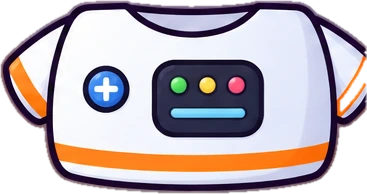
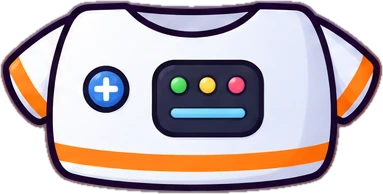
Recut spacesuit (right sleeve was cropped)
Claude-Session: https://claude.ai/code/session_01R3m8MAFkhgnU4D5f6BKp5W

diff --git a/index.html b/index.html
@@ -752,7 +752,7 @@ var FOODS = {
 var SHOP = [];
 /* 이미지로 만든 아이템: {id,name,slot,tier,cost,file:'assets/items/id.webp',box:[x,y,w,h]} 를 여기에 추가하면
    뽑기·꾸미기·도감에 자동으로 들어가요. box는 캔버스(640x520) 좌표, vb는 box 와 같아요. */
-var IMG_ITEMS = [{"id": "ribbon", "name": "빨간 리본", "slot": "side", "tier": 0, "cost": 8, "file": "assets/items/ribbon.webp", "box": [374.5, 56.1, 125, 71.7]}, {"id": "flower", "name": "꽃 핀", "slot": "side", "tier": 0, "cost": 12, "file": "assets/items/flower.webp", "box": [152.5, 43.1, 105, 97.7]}, {"id": "sprout", "name": "새싹 핀", "slot": "side", "tier": 0, "cost": 8, "file": "assets/items/sprout.webp", "box": [382.0, 53.3, 110, 77.5]}, {"id": "heart", "name": "하트 핀", "slot": "side", "tier": 0, "cost": 10, "file": "assets/items/heart.webp", "box": [383.0, 46.8, 108, 90.4]}, {"id": "star", "name": "별 핀", "slot": "side", "tier": 0, "cost": 10, "file": "assets/items/star.webp", "box": [383.0, 37.5, 108, 108.9]}, {"id": "cloudbow", "name": "구름 무지개 핀", "slot": "side", "tier": 0, "cost": 12, "file": "assets/items/cloudbow.webp", "box": [377.0, 51.8, 120, 80.5]}, {"id": "cherry", "name": "체리 핀", "slot": "side", "tier": 0, "cost": 12, "file": "assets/items/cherry.webp", "box": [387.0, 42.4, 100, 99.2]}, {"id": "glasses", "name": "동그란 안경", "slot": "face", "tier": 1, "cost": 15, "file": "assets/items/glasses.webp", "box": [143.5, 166.3, 355, 147.4]}, {"id": "scarf", "name": "따뜻한 목도리", "slot": "neck", "tier": 1, "cost": 20, "file": "assets/items/scarf.webp", "box": [179.5, 318.9, 285, 178.3]}, {"id": "hat", "name": "파티 모자", "slot": "head", "tier": 1, "cost": 25, "file": "assets/items/hat.webp", "box": [250.0, -80.1, 140, 168.1]}, {"id": "wingpin", "name": "날개 핀", "slot": "side", "tier": 1, "cost": 18, "file": "assets/items/wingpin.webp", "box": [379.5, 46.4, 115, 91.1]}, {"id": "purplebow", "name": "보라 리본 핀", "slot": "side", "tier": 1, "cost": 15, "file": "assets/items/purplebow.webp", "box": [377.0, 50.1, 120, 83.8]}, {"id": "lacebow", "name": "레이스 리본 핀", "slot": "side", "tier": 1, "cost": 18, "file": "assets/items/lacebow.webp", "box": [379.5, 38.0, 115, 108.1]}, {"id": "snow", "name": "눈꽃 핀", "slot": "side", "tier": 1, "cost": 20, "file": "assets/items/snow.webp", "box": [387.0, 48.3, 100, 87.4]}, {"id": "moon", "name": "달별 핀", "slot": "side", "tier": 1, "cost": 22, "file": "assets/items/moon.webp", "box": [382.0, 39.7, 110, 104.6]}, {"id": "crown", "name": "반짝 왕관", "slot": "head", "tier": 2, "cost": 0, "file": "assets/items/crown.webp", "box": [230.0, -37.8, 180, 127.8]}, {"id": "wizard", "name": "별 마법사 모자", "slot": "head", "tier": 2, "cost": 0, "file": "assets/items/wizard.webp", "box": [177.0, -77.3, 290, 189.3]}, {"id": "starwing", "name": "별무지개 날개 머리띠", "slot": "head", "tier": 2, "cost": 0, "file": "assets/items/starwing.webp", "box": [165.0, 28.9, 310, 134.2]}, {"id": "nightcap", "name": "꿀잠 모자", "slot": "head", "tier": 2, "cost": 0, "file": "assets/items/nightcap.webp", "box": [192.0, 9.8, 260, 180.4]}, {"id": "maid", "name": "프릴 리본 머리띠", "slot": "head", "tier": 2, "cost": 0, "file": "assets/items/maid.webp", "box": [190.0, 19.6, 260, 156.9]}, {"id": "angel", "name": "천사 날개 후광", "slot": "head", "tier": 3, "cost": 0, "file": "assets/items/angel.webp", "box": [150.0, 6.4, 340, 177.1]}, {"id": "bat", "name": "박쥐 날개", "slot": "head", "tier": 3, "cost": 0, "file": "assets/items/bat.webp", "box": [165.0, 48.5, 310, 127.1]}, {"id": "wreath", "name": "꽃 화관", "slot": "head", "tier": 3, "cost": 0, "file": "assets/items/wreath.webp", "box": [180.0, 19.0, 280, 162.0]}, {"id": "tiara", "name": "날개 티아라", "slot": "head", "tier": 3, "cost": 0, "file": "assets/items/tiara.webp", "box": [195.0, 18.6, 250, 146.9]}, {"id": "galaxy", "name": "은하수 머리띠", "slot": "head", "tier": 3, "cost": 0, "file": "assets/items/galaxy.webp", "box": [160.0, 23.2, 320, 161.5]}, {"id": "broom", "name": "빗자루", "slot": "hand", "tier": 0, "cost": 14, "file": "assets/items/broom.webp", "box": [401.6, 283, 100.8, 230]}, {"id": "drink", "name": "음료수", "slot": "hand", "tier": 0, "cost": 10, "file": "assets/items/drink.webp", "box": [136.2, 332, 97.6, 162]}, {"id": "schoolbag", "name": "학교가방", "slot": "hand", "tier": 0, "cost": 16, "file": "assets/items/schoolbag.webp", "box": [383.0, 392, 133.0, 140]}, {"id": "slime", "name": "슬라임", "slot": "hand", "tier": 1, "cost": 18, "file": "assets/items/slime.webp", "box": [108.0, 331.1, 154, 116.8]}, {"id": "gameboy", "name": "휴대용 게임기", "slot": "hand", "tier": 1, "cost": 24, "file": "assets/items/gameboy.webp", "box": [222.0, 359.4, 195, 109.1]}, {"id": "bananadoll", "name": "바나나 애착인형", "slot": "hand", "tier": 2, "cost": 0, "file": "assets/items/bananadoll.webp", "box": [105.0, 303.6, 150, 176.4]}, {"id": "elephantdoll", "name": "코끼리 애착인형", "slot": "hand", "tier": 2, "cost": 0, "file": "assets/items/elephantdoll.webp", "box": [385.0, 321.0, 160, 148.7]}, {"id": "tshirt", "name": "줄무늬 티셔츠", "slot": "outfit", "tier": 0, "cost": 14, "file": "assets/items/tshirt.webp", "box": [200.0, 328, 240, 131.0]}, {"id": "overalls", "name": "멜빵바지", "slot": "outfit", "tier": 0, "cost": 16, "file": "assets/items/overalls.webp", "box": [200.0, 328, 240, 177.4]}, {"id": "dress", "name": "분홍 원피스", "slot": "outfit", "tier": 1, "cost": 26, "file": "assets/items/dress.webp", "box": [200.0, 328, 240, 131.7]}, {"id": "hanbok", "name": "한복", "slot": "outfit", "tier": 1, "cost": 30, "file": "assets/items/hanbok.webp", "box": [200.0, 328, 240, 139.9]}, {"id": "uniform", "name": "세일러 교복", "slot": "outfit", "tier": 1, "cost": 28, "file": "assets/items/uniform.webp", "box": [200.0, 328, 240, 146.9]}, {"id": "cape", "name": "별빛 마법 망토", "slot": "outfit", "tier": 2, "cost": 0, "file": "assets/items/cape.webp", "box": [200.0, 365, 240, 138.0]}, {"id": "princess", "name": "공주 드레스", "slot": "outfit", "tier": 2, "cost": 0, "file": "assets/items/princess.webp", "box": [200.0, 328, 240, 157.7]}, {"id": "spacesuit", "name": "우주복", "slot": "outfit", "tier": 3, "cost": 0, "file": "assets/items/spacesuit.webp", "box": [200.0, 328, 240, 126.9]}, {"id": "heartphones", "name": "하트 헤드폰", "slot": "head", "tier": 1, "cost": 22, "file": "assets/items/heartphones.webp", "box": [82, -12, 476, 273.0]}, {"id": "nursehat", "name": "간호사 모자", "slot": "head", "tier": 0, "cost": 14, "file": "assets/items/nursehat.webp", "box": [215, 14, 210, 102.6]}, {"id": "nursedress", "name": "간호사복", "slot": "outfit", "tier": 1, "cost": 28, "file": "assets/items/nursedress.webp", "box": [180.0, 318, 280, 206.6]}, {"id": "pancake", "name": "팬케이크", "slot": "hand", "tier": 1, "cost": 18, "file": "assets/items/pancake.webp", "box": [110, 335, 150, 121.7]}, {"id": "chocochip", "name": "초코칩", "slot": "hand", "tier": 0, "cost": 12, "file": "assets/items/chocochip.webp", "box": [130, 340, 100, 101.5]}, {"id": "elephantwings", "name": "코끼리 날개", "slot": "back", "tier": 1, "cost": 32, "file": "assets/items/elephantwings.webp", "box": [-30.0, 205, 700, 321.4]}, {"id": "angelwings", "name": "천사 날개", "slot": "back", "tier": 1, "cost": 34, "file": "assets/items/angelwings.webp", "box": [-30.0, 205, 700, 269.5]}, {"id": "demonwings", "name": "악마 날개", "slot": "back", "tier": 1, "cost": 34, "file": "assets/items/demonwings.webp", "box": [-30.0, 205, 700, 300.2]}, {"id": "rainbowwings", "name": "무지개 날개", "slot": "back", "tier": 2, "cost": 0, "file": "assets/items/rainbowwings.webp", "box": [-30.0, 205, 700, 312.6]}, {"id": "butterflywings", "name": "나비 날개", "slot": "back", "tier": 0, "cost": 24, "file": "assets/items/butterflywings.webp", "box": [-30.0, 205, 700, 313.3]}, {"id": "fairywings", "name": "요정 날개", "slot": "back", "tier": 1, "cost": 30, "file": "assets/items/fairywings.webp", "box": [-30.0, 205, 700, 358.8]}, {"id": "crystalwings", "name": "크리스탈 날개", "slot": "back", "tier": 2, "cost": 0, "file": "assets/items/crystalwings.webp", "box": [-30.0, 205, 700, 354.4]}, {"id": "starwings", "name": "별빛 날개", "slot": "back", "tier": 2, "cost": 0, "file": "assets/items/starwings.webp", "box": [-30.0, 205, 700, 348.6]}, {"id": "naturewings", "name": "자연 날개", "slot": "back", "tier": 1, "cost": 30, "file": "assets/items/naturewings.webp", "box": [-30.0, 205, 700, 350.8]}, {"id": "nheart", "name": "하트 멜빵 반바지", "slot": "outfit", "tier": 0, "cost": 16, "file": "assets/items/nheart.webp", "box": [180.0, 318, 280, 210.6]}, {"id": "nribbon", "name": "분홍 리본 원피스", "slot": "outfit", "tier": 1, "cost": 26, "file": "assets/items/nribbon.webp", "box": [180.0, 318, 280, 192.7]}, {"id": "ndaisy", "name": "노랑 데이지 원피스", "slot": "outfit", "tier": 1, "cost": 28, "file": "assets/items/ndaisy.webp", "box": [180.0, 318, 280, 200.4]}, {"id": "nstrawb", "name": "딸기 레이스 원피스", "slot": "outfit", "tier": 1, "cost": 28, "file": "assets/items/nstrawb.webp", "box": [180.0, 318, 280, 188.6]}, {"id": "nsailor", "name": "곰돌이 세일러복", "slot": "outfit", "tier": 0, "cost": 18, "file": "assets/items/nsailor.webp", "box": [180.0, 318, 280, 205.2]}, {"id": "nbeartan", "name": "갈색 리본 곰돌이옷", "slot": "outfit", "tier": 1, "cost": 26, "file": "assets/items/nbeartan.webp", "box": [180.0, 318, 280, 209.0]}, {"id": "nrose", "name": "장미 꽃무늬 원피스", "slot": "outfit", "tier": 1, "cost": 26, "file": "assets/items/nrose.webp", "box": [180.0, 318, 280, 195.0]}, {"id": "nbearblue", "name": "곰돌이 파랑 멜빵", "slot": "outfit", "tier": 0, "cost": 18, "file": "assets/items/nbearblue.webp", "box": [180.0, 318, 280, 209.6]}, {"id": "nstar", "name": "별빛 망토", "slot": "outfit", "tier": 2, "cost": 0, "file": "assets/items/nstar.webp", "box": [180.0, 318, 280, 204.7]}, {"id": "nsnow", "name": "눈꽃 망토", "slot": "outfit", "tier": 2, "cost": 0, "file": "assets/items/nsnow.webp", "box": [180.0, 318, 280, 193.8]}, {"id": "nprince", "name": "왕자님 정복", "slot": "outfit", "tier": 2, "cost": 0, "file": "assets/items/nprince.webp", "box": [180.0, 318, 280, 211.5]}, {"id": "nbat", "name": "박쥐 망토", "slot": "outfit", "tier": 3, "cost": 0, "file": "assets/items/nbat.webp", "box": [180.0, 318, 280, 207.8]}, {"id": "mpink", "name": "핑크 하트 멜빵", "slot": "outfit", "tier": 0, "cost": 16, "file": "assets/items/mpink.webp", "box": [180.0, 318, 280, 226.8]}, {"id": "myellow", "name": "노랑 데이지 리본 원피스", "slot": "outfit", "tier": 1, "cost": 26, "file": "assets/items/myellow.webp", "box": [180.0, 318, 280, 197.4]}, {"id": "manchor", "name": "닻 세일러 원피스", "slot": "outfit", "tier": 0, "cost": 18, "file": "assets/items/manchor.webp", "box": [180.0, 318, 280, 206.7]}, {"id": "mstrawchk", "name": "딸기 체크 원피스", "slot": "outfit", "tier": 1, "cost": 28, "file": "assets/items/mstrawchk.webp", "box": [180.0, 318, 280, 196.1]}, {"id": "mdenim", "name": "별 청멜빵 반바지", "slot": "outfit", "tier": 0, "cost": 16, "file": "assets/items/mdenim.webp", "box": [180.0, 318, 280, 213.6]}, {"id": "mlavender", "name": "라벤더 프릴 원피스", "slot": "outfit", "tier": 1, "cost": 28, "file": "assets/items/mlavender.webp", "box": [180.0, 318, 280, 197.1]}, {"id": "mbearcream", "name": "곰돌이 크림 멜빵", "slot": "outfit", "tier": 1, "cost": 26, "file": "assets/items/mbearcream.webp", "box": [180.0, 318, 280, 215.8]}, {"id": "mmint", "name": "민트 클로버 원피스", "slot": "outfit", "tier": 1, "cost": 26, "file": "assets/items/mmint.webp", "box": [180.0, 318, 280, 202.9]}, {"id": "mcloud", "name": "구름 리본 원피스", "slot": "outfit", "tier": 1, "cost": 26, "file": "assets/items/mcloud.webp", "box": [180.0, 318, 280, 205.4]}, {"id": "mbee", "name": "꿀벌 멜빵", "slot": "outfit", "tier": 2, "cost": 0, "file": "assets/items/mbee.webp", "box": [180.0, 318, 280, 232.5]}, {"id": "mpearl", "name": "진주 하트 원피스", "slot": "outfit", "tier": 2, "cost": 0, "file": "assets/items/mpearl.webp", "box": [160.0, 318, 280, 214.0]}, {"id": "mnavy", "name": "달별 네이비 정복", "slot": "outfit", "tier": 3, "cost": 0, "file": "assets/items/mnavy.webp", "box": [180.0, 318, 280, 211.5]}, {"id": "psakura", "name": "벚꽃 원피스", "slot": "outfit", "tier": 1, "cost": 26, "file": "assets/items/psakura.webp", "box": [180.0, 328, 280, 217.5]}, {"id": "palice", "name": "앨리스 원피스", "slot": "outfit", "tier": 2, "cost": 0, "file": "assets/items/palice.webp", "box": [180.0, 328, 280, 222.2]}, {"id": "ppicnic", "name": "체크 피크닉 원피스", "slot": "outfit", "tier": 1, "cost": 28, "file": "assets/items/ppicnic.webp", "box": [180.0, 328, 280, 222.3]}, {"id": "pballet", "name": "발레코어 원피스", "slot": "outfit", "tier": 1, "cost": 28, "file": "assets/items/pballet.webp", "box": [180.0, 328, 280, 206.8]}, {"id": "pangel", "name": "천사 원피스", "slot": "outfit", "tier": 2, "cost": 0, "file": "assets/items/pangel.webp", "box": [180.0, 328, 280, 210.4]}, {"id": "pwedding", "name": "웨딩 드레스", "slot": "outfit", "tier": 3, "cost": 0, "file": "assets/items/pwedding.webp", "box": [180.0, 328, 280, 215.6]}, {"id": "pbee", "name": "꿀벌 원피스", "slot": "outfit", "tier": 1, "cost": 26, "file": "assets/items/pbee.webp", "box": [180.0, 328, 280, 236.0]}, {"id": "pfrog", "name": "개구리 멜빵", "slot": "outfit", "tier": 0, "cost": 18, "file": "assets/items/pfrog.webp", "box": [180.0, 328, 280, 214.2]}, {"id": "pcherry", "name": "체리 원피스", "slot": "outfit", "tier": 1, "cost": 28, "file": "assets/items/pcherry.webp", "box": [180.0, 328, 280, 228.3]}, {"id": "pcloudstar", "name": "구름별 원피스", "slot": "outfit", "tier": 2, "cost": 0, "file": "assets/items/pcloudstar.webp", "box": [180.0, 328, 280, 234.1]}, {"id": "pgoth", "name": "고딕 로리타", "slot": "outfit", "tier": 2, "cost": 0, "file": "assets/items/pgoth.webp", "box": [180.0, 328, 280, 230.8]}, {"id": "pxmas", "name": "크리스마스 원피스", "slot": "outfit", "tier": 3, "cost": 0, "file": "assets/items/pxmas.webp", "box": [180.0, 328, 280, 219.7]}];
+var IMG_ITEMS = [{"id": "ribbon", "name": "빨간 리본", "slot": "side", "tier": 0, "cost": 8, "file": "assets/items/ribbon.webp", "box": [374.5, 56.1, 125, 71.7]}, {"id": "flower", "name": "꽃 핀", "slot": "side", "tier": 0, "cost": 12, "file": "assets/items/flower.webp", "box": [152.5, 43.1, 105, 97.7]}, {"id": "sprout", "name": "새싹 핀", "slot": "side", "tier": 0, "cost": 8, "file": "assets/items/sprout.webp", "box": [382.0, 53.3, 110, 77.5]}, {"id": "heart", "name": "하트 핀", "slot": "side", "tier": 0, "cost": 10, "file": "assets/items/heart.webp", "box": [383.0, 46.8, 108, 90.4]}, {"id": "star", "name": "별 핀", "slot": "side", "tier": 0, "cost": 10, "file": "assets/items/star.webp", "box": [383.0, 37.5, 108, 108.9]}, {"id": "cloudbow", "name": "구름 무지개 핀", "slot": "side", "tier": 0, "cost": 12, "file": "assets/items/cloudbow.webp", "box": [377.0, 51.8, 120, 80.5]}, {"id": "cherry", "name": "체리 핀", "slot": "side", "tier": 0, "cost": 12, "file": "assets/items/cherry.webp", "box": [387.0, 42.4, 100, 99.2]}, {"id": "glasses", "name": "동그란 안경", "slot": "face", "tier": 1, "cost": 15, "file": "assets/items/glasses.webp", "box": [143.5, 166.3, 355, 147.4]}, {"id": "scarf", "name": "따뜻한 목도리", "slot": "neck", "tier": 1, "cost": 20, "file": "assets/items/scarf.webp", "box": [179.5, 318.9, 285, 178.3]}, {"id": "hat", "name": "파티 모자", "slot": "head", "tier": 1, "cost": 25, "file": "assets/items/hat.webp", "box": [250.0, -80.1, 140, 168.1]}, {"id": "wingpin", "name": "날개 핀", "slot": "side", "tier": 1, "cost": 18, "file": "assets/items/wingpin.webp", "box": [379.5, 46.4, 115, 91.1]}, {"id": "purplebow", "name": "보라 리본 핀", "slot": "side", "tier": 1, "cost": 15, "file": "assets/items/purplebow.webp", "box": [377.0, 50.1, 120, 83.8]}, {"id": "lacebow", "name": "레이스 리본 핀", "slot": "side", "tier": 1, "cost": 18, "file": "assets/items/lacebow.webp", "box": [379.5, 38.0, 115, 108.1]}, {"id": "snow", "name": "눈꽃 핀", "slot": "side", "tier": 1, "cost": 20, "file": "assets/items/snow.webp", "box": [387.0, 48.3, 100, 87.4]}, {"id": "moon", "name": "달별 핀", "slot": "side", "tier": 1, "cost": 22, "file": "assets/items/moon.webp", "box": [382.0, 39.7, 110, 104.6]}, {"id": "crown", "name": "반짝 왕관", "slot": "head", "tier": 2, "cost": 0, "file": "assets/items/crown.webp", "box": [230.0, -37.8, 180, 127.8]}, {"id": "wizard", "name": "별 마법사 모자", "slot": "head", "tier": 2, "cost": 0, "file": "assets/items/wizard.webp", "box": [177.0, -77.3, 290, 189.3]}, {"id": "starwing", "name": "별무지개 날개 머리띠", "slot": "head", "tier": 2, "cost": 0, "file": "assets/items/starwing.webp", "box": [165.0, 28.9, 310, 134.2]}, {"id": "nightcap", "name": "꿀잠 모자", "slot": "head", "tier": 2, "cost": 0, "file": "assets/items/nightcap.webp", "box": [192.0, 9.8, 260, 180.4]}, {"id": "maid", "name": "프릴 리본 머리띠", "slot": "head", "tier": 2, "cost": 0, "file": "assets/items/maid.webp", "box": [190.0, 19.6, 260, 156.9]}, {"id": "angel", "name": "천사 날개 후광", "slot": "head", "tier": 3, "cost": 0, "file": "assets/items/angel.webp", "box": [150.0, 6.4, 340, 177.1]}, {"id": "bat", "name": "박쥐 날개", "slot": "head", "tier": 3, "cost": 0, "file": "assets/items/bat.webp", "box": [165.0, 48.5, 310, 127.1]}, {"id": "wreath", "name": "꽃 화관", "slot": "head", "tier": 3, "cost": 0, "file": "assets/items/wreath.webp", "box": [180.0, 19.0, 280, 162.0]}, {"id": "tiara", "name": "날개 티아라", "slot": "head", "tier": 3, "cost": 0, "file": "assets/items/tiara.webp", "box": [195.0, 18.6, 250, 146.9]}, {"id": "galaxy", "name": "은하수 머리띠", "slot": "head", "tier": 3, "cost": 0, "file": "assets/items/galaxy.webp", "box": [160.0, 23.2, 320, 161.5]}, {"id": "broom", "name": "빗자루", "slot": "hand", "tier": 0, "cost": 14, "file": "assets/items/broom.webp", "box": [401.6, 283, 100.8, 230]}, {"id": "drink", "name": "음료수", "slot": "hand", "tier": 0, "cost": 10, "file": "assets/items/drink.webp", "box": [136.2, 332, 97.6, 162]}, {"id": "schoolbag", "name": "학교가방", "slot": "hand", "tier": 0, "cost": 16, "file": "assets/items/schoolbag.webp", "box": [383.0, 392, 133.0, 140]}, {"id": "slime", "name": "슬라임", "slot": "hand", "tier": 1, "cost": 18, "file": "assets/items/slime.webp", "box": [108.0, 331.1, 154, 116.8]}, {"id": "gameboy", "name": "휴대용 게임기", "slot": "hand", "tier": 1, "cost": 24, "file": "assets/items/gameboy.webp", "box": [222.0, 359.4, 195, 109.1]}, {"id": "bananadoll", "name": "바나나 애착인형", "slot": "hand", "tier": 2, "cost": 0, "file": "assets/items/bananadoll.webp", "box": [105.0, 303.6, 150, 176.4]}, {"id": "elephantdoll", "name": "코끼리 애착인형", "slot": "hand", "tier": 2, "cost": 0, "file": "assets/items/elephantdoll.webp", "box": [385.0, 321.0, 160, 148.7]}, {"id": "tshirt", "name": "줄무늬 티셔츠", "slot": "outfit", "tier": 0, "cost": 14, "file": "assets/items/tshirt.webp", "box": [200.0, 328, 240, 131.0]}, {"id": "overalls", "name": "멜빵바지", "slot": "outfit", "tier": 0, "cost": 16, "file": "assets/items/overalls.webp", "box": [200.0, 328, 240, 177.4]}, {"id": "dress", "name": "분홍 원피스", "slot": "outfit", "tier": 1, "cost": 26, "file": "assets/items/dress.webp", "box": [200.0, 328, 240, 131.7]}, {"id": "hanbok", "name": "한복", "slot": "outfit", "tier": 1, "cost": 30, "file": "assets/items/hanbok.webp", "box": [200.0, 328, 240, 139.9]}, {"id": "uniform", "name": "세일러 교복", "slot": "outfit", "tier": 1, "cost": 28, "file": "assets/items/uniform.webp", "box": [200.0, 328, 240, 146.9]}, {"id": "cape", "name": "별빛 마법 망토", "slot": "outfit", "tier": 2, "cost": 0, "file": "assets/items/cape.webp", "box": [200.0, 365, 240, 138.0]}, {"id": "princess", "name": "공주 드레스", "slot": "outfit", "tier": 2, "cost": 0, "file": "assets/items/princess.webp", "box": [200.0, 328, 240, 157.7]}, {"id": "spacesuit", "name": "우주복", "slot": "outfit", "tier": 3, "cost": 0, "file": "assets/items/spacesuit.webp", "box": [200.0, 328, 240, 121.6]}, {"id": "heartphones", "name": "하트 헤드폰", "slot": "head", "tier": 1, "cost": 22, "file": "assets/items/heartphones.webp", "box": [82, -12, 476, 273.0]}, {"id": "nursehat", "name": "간호사 모자", "slot": "head", "tier": 0, "cost": 14, "file": "assets/items/nursehat.webp", "box": [215, 14, 210, 102.6]}, {"id": "nursedress", "name": "간호사복", "slot": "outfit", "tier": 1, "cost": 28, "file": "assets/items/nursedress.webp", "box": [180.0, 318, 280, 206.6]}, {"id": "pancake", "name": "팬케이크", "slot": "hand", "tier": 1, "cost": 18, "file": "assets/items/pancake.webp", "box": [110, 335, 150, 121.7]}, {"id": "chocochip", "name": "초코칩", "slot": "hand", "tier": 0, "cost": 12, "file": "assets/items/chocochip.webp", "box": [130, 340, 100, 101.5]}, {"id": "elephantwings", "name": "코끼리 날개", "slot": "back", "tier": 1, "cost": 32, "file": "assets/items/elephantwings.webp", "box": [-30.0, 205, 700, 321.4]}, {"id": "angelwings", "name": "천사 날개", "slot": "back", "tier": 1, "cost": 34, "file": "assets/items/angelwings.webp", "box": [-30.0, 205, 700, 269.5]}, {"id": "demonwings", "name": "악마 날개", "slot": "back", "tier": 1, "cost": 34, "file": "assets/items/demonwings.webp", "box": [-30.0, 205, 700, 300.2]}, {"id": "rainbowwings", "name": "무지개 날개", "slot": "back", "tier": 2, "cost": 0, "file": "assets/items/rainbowwings.webp", "box": [-30.0, 205, 700, 312.6]}, {"id": "butterflywings", "name": "나비 날개", "slot": "back", "tier": 0, "cost": 24, "file": "assets/items/butterflywings.webp", "box": [-30.0, 205, 700, 313.3]}, {"id": "fairywings", "name": "요정 날개", "slot": "back", "tier": 1, "cost": 30, "file": "assets/items/fairywings.webp", "box": [-30.0, 205, 700, 358.8]}, {"id": "crystalwings", "name": "크리스탈 날개", "slot": "back", "tier": 2, "cost": 0, "file": "assets/items/crystalwings.webp", "box": [-30.0, 205, 700, 354.4]}, {"id": "starwings", "name": "별빛 날개", "slot": "back", "tier": 2, "cost": 0, "file": "assets/items/starwings.webp", "box": [-30.0, 205, 700, 348.6]}, {"id": "naturewings", "name": "자연 날개", "slot": "back", "tier": 1, "cost": 30, "file": "assets/items/naturewings.webp", "box": [-30.0, 205, 700, 350.8]}, {"id": "nheart", "name": "하트 멜빵 반바지", "slot": "outfit", "tier": 0, "cost": 16, "file": "assets/items/nheart.webp", "box": [180.0, 318, 280, 210.6]}, {"id": "nribbon", "name": "분홍 리본 원피스", "slot": "outfit", "tier": 1, "cost": 26, "file": "assets/items/nribbon.webp", "box": [180.0, 318, 280, 192.7]}, {"id": "ndaisy", "name": "노랑 데이지 원피스", "slot": "outfit", "tier": 1, "cost": 28, "file": "assets/items/ndaisy.webp", "box": [180.0, 318, 280, 200.4]}, {"id": "nstrawb", "name": "딸기 레이스 원피스", "slot": "outfit", "tier": 1, "cost": 28, "file": "assets/items/nstrawb.webp", "box": [180.0, 318, 280, 188.6]}, {"id": "nsailor", "name": "곰돌이 세일러복", "slot": "outfit", "tier": 0, "cost": 18, "file": "assets/items/nsailor.webp", "box": [180.0, 318, 280, 205.2]}, {"id": "nbeartan", "name": "갈색 리본 곰돌이옷", "slot": "outfit", "tier": 1, "cost": 26, "file": "assets/items/nbeartan.webp", "box": [180.0, 318, 280, 209.0]}, {"id": "nrose", "name": "장미 꽃무늬 원피스", "slot": "outfit", "tier": 1, "cost": 26, "file": "assets/items/nrose.webp", "box": [180.0, 318, 280, 195.0]}, {"id": "nbearblue", "name": "곰돌이 파랑 멜빵", "slot": "outfit", "tier": 0, "cost": 18, "file": "assets/items/nbearblue.webp", "box": [180.0, 318, 280, 209.6]}, {"id": "nstar", "name": "별빛 망토", "slot": "outfit", "tier": 2, "cost": 0, "file": "assets/items/nstar.webp", "box": [180.0, 318, 280, 204.7]}, {"id": "nsnow", "name": "눈꽃 망토", "slot": "outfit", "tier": 2, "cost": 0, "file": "assets/items/nsnow.webp", "box": [180.0, 318, 280, 193.8]}, {"id": "nprince", "name": "왕자님 정복", "slot": "outfit", "tier": 2, "cost": 0, "file": "assets/items/nprince.webp", "box": [180.0, 318, 280, 211.5]}, {"id": "nbat", "name": "박쥐 망토", "slot": "outfit", "tier": 3, "cost": 0, "file": "assets/items/nbat.webp", "box": [180.0, 318, 280, 207.8]}, {"id": "mpink", "name": "핑크 하트 멜빵", "slot": "outfit", "tier": 0, "cost": 16, "file": "assets/items/mpink.webp", "box": [180.0, 318, 280, 226.8]}, {"id": "myellow", "name": "노랑 데이지 리본 원피스", "slot": "outfit", "tier": 1, "cost": 26, "file": "assets/items/myellow.webp", "box": [180.0, 318, 280, 197.4]}, {"id": "manchor", "name": "닻 세일러 원피스", "slot": "outfit", "tier": 0, "cost": 18, "file": "assets/items/manchor.webp", "box": [180.0, 318, 280, 206.7]}, {"id": "mstrawchk", "name": "딸기 체크 원피스", "slot": "outfit", "tier": 1, "cost": 28, "file": "assets/items/mstrawchk.webp", "box": [180.0, 318, 280, 196.1]}, {"id": "mdenim", "name": "별 청멜빵 반바지", "slot": "outfit", "tier": 0, "cost": 16, "file": "assets/items/mdenim.webp", "box": [180.0, 318, 280, 213.6]}, {"id": "mlavender", "name": "라벤더 프릴 원피스", "slot": "outfit", "tier": 1, "cost": 28, "file": "assets/items/mlavender.webp", "box": [180.0, 318, 280, 197.1]}, {"id": "mbearcream", "name": "곰돌이 크림 멜빵", "slot": "outfit", "tier": 1, "cost": 26, "file": "assets/items/mbearcream.webp", "box": [180.0, 318, 280, 215.8]}, {"id": "mmint", "name": "민트 클로버 원피스", "slot": "outfit", "tier": 1, "cost": 26, "file": "assets/items/mmint.webp", "box": [180.0, 318, 280, 202.9]}, {"id": "mcloud", "name": "구름 리본 원피스", "slot": "outfit", "tier": 1, "cost": 26, "file": "assets/items/mcloud.webp", "box": [180.0, 318, 280, 205.4]}, {"id": "mbee", "name": "꿀벌 멜빵", "slot": "outfit", "tier": 2, "cost": 0, "file": "assets/items/mbee.webp", "box": [180.0, 318, 280, 232.5]}, {"id": "mpearl", "name": "진주 하트 원피스", "slot": "outfit", "tier": 2, "cost": 0, "file": "assets/items/mpearl.webp", "box": [160.0, 318, 280, 214.0]}, {"id": "mnavy", "name": "달별 네이비 정복", "slot": "outfit", "tier": 3, "cost": 0, "file": "assets/items/mnavy.webp", "box": [180.0, 318, 280, 211.5]}, {"id": "psakura", "name": "벚꽃 원피스", "slot": "outfit", "tier": 1, "cost": 26, "file": "assets/items/psakura.webp", "box": [180.0, 328, 280, 217.5]}, {"id": "palice", "name": "앨리스 원피스", "slot": "outfit", "tier": 2, "cost": 0, "file": "assets/items/palice.webp", "box": [180.0, 328, 280, 222.2]}, {"id": "ppicnic", "name": "체크 피크닉 원피스", "slot": "outfit", "tier": 1, "cost": 28, "file": "assets/items/ppicnic.webp", "box": [180.0, 328, 280, 222.3]}, {"id": "pballet", "name": "발레코어 원피스", "slot": "outfit", "tier": 1, "cost": 28, "file": "assets/items/pballet.webp", "box": [180.0, 328, 280, 206.8]}, {"id": "pangel", "name": "천사 원피스", "slot": "outfit", "tier": 2, "cost": 0, "file": "assets/items/pangel.webp", "box": [180.0, 328, 280, 210.4]}, {"id": "pwedding", "name": "웨딩 드레스", "slot": "outfit", "tier": 3, "cost": 0, "file": "assets/items/pwedding.webp", "box": [180.0, 328, 280, 215.6]}, {"id": "pbee", "name": "꿀벌 원피스", "slot": "outfit", "tier": 1, "cost": 26, "file": "assets/items/pbee.webp", "box": [180.0, 328, 280, 236.0]}, {"id": "pfrog", "name": "개구리 멜빵", "slot": "outfit", "tier": 0, "cost": 18, "file": "assets/items/pfrog.webp", "box": [180.0, 328, 280, 214.2]}, {"id": "pcherry", "name": "체리 원피스", "slot": "outfit", "tier": 1, "cost": 28, "file": "assets/items/pcherry.webp", "box": [180.0, 328, 280, 228.3]}, {"id": "pcloudstar", "name": "구름별 원피스", "slot": "outfit", "tier": 2, "cost": 0, "file": "assets/items/pcloudstar.webp", "box": [180.0, 328, 280, 234.1]}, {"id": "pgoth", "name": "고딕 로리타", "slot": "outfit", "tier": 2, "cost": 0, "file": "assets/items/pgoth.webp", "box": [180.0, 328, 280, 230.8]}, {"id": "pxmas", "name": "크리스마스 원피스", "slot": "outfit", "tier": 3, "cost": 0, "file": "assets/items/pxmas.webp", "box": [180.0, 328, 280, 219.7]}];
 var ROOM_ITEMS = [{"id": "wall1", "name": "분홍 줄무늬 벽지", "kind": "wallpaper", "tier": 0, "file": "assets/room/wall1.webp", "w": 114, "h": 88}, {"id": "wall2", "name": "하늘 구름 벽지", "kind": "wallpaper", "tier": 0, "file": "assets/room/wall2.webp", "w": 116, "h": 88}, {"id": "wall3", "name": "노랑 별 벽지", "kind": "wallpaper", "tier": 1, "file": "assets/room/wall3.webp", "w": 116, "h": 88}, {"id": "wall4", "name": "보라 달 벽지", "kind": "wallpaper", "tier": 1, "file": "assets/room/wall4.webp", "w": 116, "h": 88}, {"id": "floor1", "name": "분홍 체크 바닥", "kind": "floor", "tier": 0, "file": "assets/room/floor1.webp", "w": 110, "h": 51}, {"id": "floor2", "name": "나무 바닥", "kind": "floor", "tier": 0, "file": "assets/room/floor2.webp", "w": 132, "h": 99}, {"id": "floor3", "name": "하얀 대리석 바닥", "kind": "floor", "tier": 1, "file": "assets/room/floor3.webp", "w": 70, "h": 59}, {"id": "floor4", "name": "초록 다다미 바닥", "kind": "floor", "tier": 1, "file": "assets/room/floor4.webp", "w": 117, "h": 55}, {"id": "bed", "name": "하트 침대", "kind": "furn", "tier": 2, "file": "assets/room/bed.webp", "w": 156, "h": 151}, {"id": "sofa", "name": "구름 소파", "kind": "furn", "tier": 2, "file": "assets/room/sofa.webp", "w": 152, "h": 121}, {"id": "bookshelf", "name": "코끼리 책장", "kind": "furn", "tier": 2, "file": "assets/room/bookshelf.webp", "w": 117, "h": 168}, {"id": "desk", "name": "공부 책상", "kind": "furn", "tier": 2, "file": "assets/room/desk.webp", "w": 182, "h": 146}, {"id": "dresser", "name": "거울 서랍장", "kind": "furn", "tier": 2, "file": "assets/room/dresser.webp", "w": 113, "h": 151}, {"id": "armchair", "name": "하트 안락의자", "kind": "furn", "tier": 1, "file": "assets/room/armchair.webp", "w": 126, "h": 127}, {"id": "curtains", "name": "분홍 커튼", "kind": "wall", "tier": 1, "file": "assets/room/curtains.webp", "w": 149, "h": 115}, {"id": "window1", "name": "둥근 창문", "kind": "wall", "tier": 1, "file": "assets/room/window1.webp", "w": 104, "h": 100}, {"id": "window2", "name": "숲 창문", "kind": "wall", "tier": 0, "file": "assets/room/window2.webp", "w": 77, "h": 83}, {"id": "chandelier", "name": "리본 샹들리에", "kind": "wall", "tier": 1, "file": "assets/room/chandelier.webp", "w": 93, "h": 94}, {"id": "moonlight", "name": "달 구름 조명", "kind": "wall", "tier": 1, "file": "assets/room/moonlight.webp", "w": 96, "h": 79}, {"id": "mobile", "name": "별 모빌", "kind": "wall", "tier": 1, "file": "assets/room/mobile.webp", "w": 78, "h": 87}, {"id": "tablelamp", "name": "분홍 스탠드", "kind": "prop", "tier": 0, "file": "assets/room/tablelamp.webp", "w": 62, "h": 83}, {"id": "floorlamp", "name": "리본 장스탠드", "kind": "prop", "tier": 1, "file": "assets/room/floorlamp.webp", "w": 59, "h": 154}, {"id": "heartdeco", "name": "하트 장식", "kind": "wall", "tier": 0, "file": "assets/room/heartdeco.webp", "w": 58, "h": 73}, {"id": "frame1", "name": "하트 액자", "kind": "wall", "tier": 0, "file": "assets/room/frame1.webp", "w": 61, "h": 73}, {"id": "frame2", "name": "코끼리 액자", "kind": "wall", "tier": 0, "file": "assets/room/frame2.webp", "w": 76, "h": 76}, {"id": "frame3", "name": "구름 액자", "kind": "wall", "tier": 0, "file": "assets/room/frame3.webp", "w": 44, "h": 54}, {"id": "calendar", "name": "달력", "kind": "wall", "tier": 0, "file": "assets/room/calendar.webp", "w": 61, "h": 96}, {"id": "clock", "name": "리본 시계", "kind": "wall", "tier": 0, "file": "assets/room/clock.webp", "w": 62, "h": 80}, {"id": "wallshelf", "name": "코끼리 선반", "kind": "wall", "tier": 1, "file": "assets/room/wallshelf.webp", "w": 157, "h": 82}, {"id": "hangplant", "name": "걸이 화분", "kind": "wall", "tier": 0, "file": "assets/room/hangplant.webp", "w": 51, "h": 98}, {"id": "plantpot", "name": "리본 화분", "kind": "prop", "tier": 0, "file": "assets/room/plantpot.webp", "w": 73, "h": 101}, {"id": "flowershelf", "name": "꽃 선반", "kind": "wall", "tier": 1, "file": "assets/room/flowershelf.webp", "w": 122, "h": 71}, {"id": "bluerug", "name": "파란 꽃 러그", "kind": "rug", "tier": 1, "file": "assets/room/bluerug.webp", "w": 172, "h": 81}, {"id": "tulip", "name": "튤립 화병", "kind": "prop", "tier": 0, "file": "assets/room/tulip.webp", "w": 61, "h": 115}, {"id": "bigplant", "name": "큰 화분", "kind": "prop", "tier": 1, "file": "assets/room/bigplant.webp", "w": 80, "h": 121}, {"id": "flowerstool", "name": "꽃 테이블", "kind": "furn", "tier": 1, "file": "assets/room/flowerstool.webp", "w": 98, "h": 70}, {"id": "pinkstool", "name": "분홍 의자", "kind": "furn", "tier": 0, "file": "assets/room/pinkstool.webp", "w": 62, "h": 68}, {"id": "pinkbox", "name": "하트 상자", "kind": "prop", "tier": 0, "file": "assets/room/pinkbox.webp", "w": 67, "h": 57}, {"id": "teddy", "name": "곰돌이 인형", "kind": "prop", "tier": 0, "file": "assets/room/teddy.webp", "w": 65, "h": 74}, {"id": "cloudrug", "name": "구름 러그", "kind": "rug", "tier": 0, "file": "assets/room/cloudrug.webp", "w": 77, "h": 48}, {"id": "quilt", "name": "누빔 하트 러그", "kind": "rug", "tier": 0, "file": "assets/room/quilt.webp", "w": 64, "h": 53}, {"id": "sidetable", "name": "하트 협탁", "kind": "furn", "tier": 0, "file": "assets/room/sidetable.webp", "w": 52, "h": 57}, {"id": "ottoman", "name": "분홍 오토만", "kind": "furn", "tier": 0, "file": "assets/room/ottoman.webp", "w": 56, "h": 53}, {"id": "globe", "name": "지구본", "kind": "prop", "tier": 0, "file": "assets/room/globe.webp", "w": 48, "h": 61}, {"id": "mirror", "name": "스탠드 거울", "kind": "prop", "tier": 0, "file": "assets/room/mirror.webp", "w": 52, "h": 58}, {"id": "books", "name": "책 더미", "kind": "prop", "tier": 0, "file": "assets/room/books.webp", "w": 52, "h": 46}, {"id": "boxes", "name": "선물 상자", "kind": "prop", "tier": 0, "file": "assets/room/boxes.webp", "w": 53, "h": 61}, {"id": "lantern", "name": "작은 랜턴", "kind": "prop", "tier": 0, "file": "assets/room/lantern.webp", "w": 34, "h": 37}];
 var TIERS = [
   {name:'보통',     w:60, dup:4,  buy:true},
